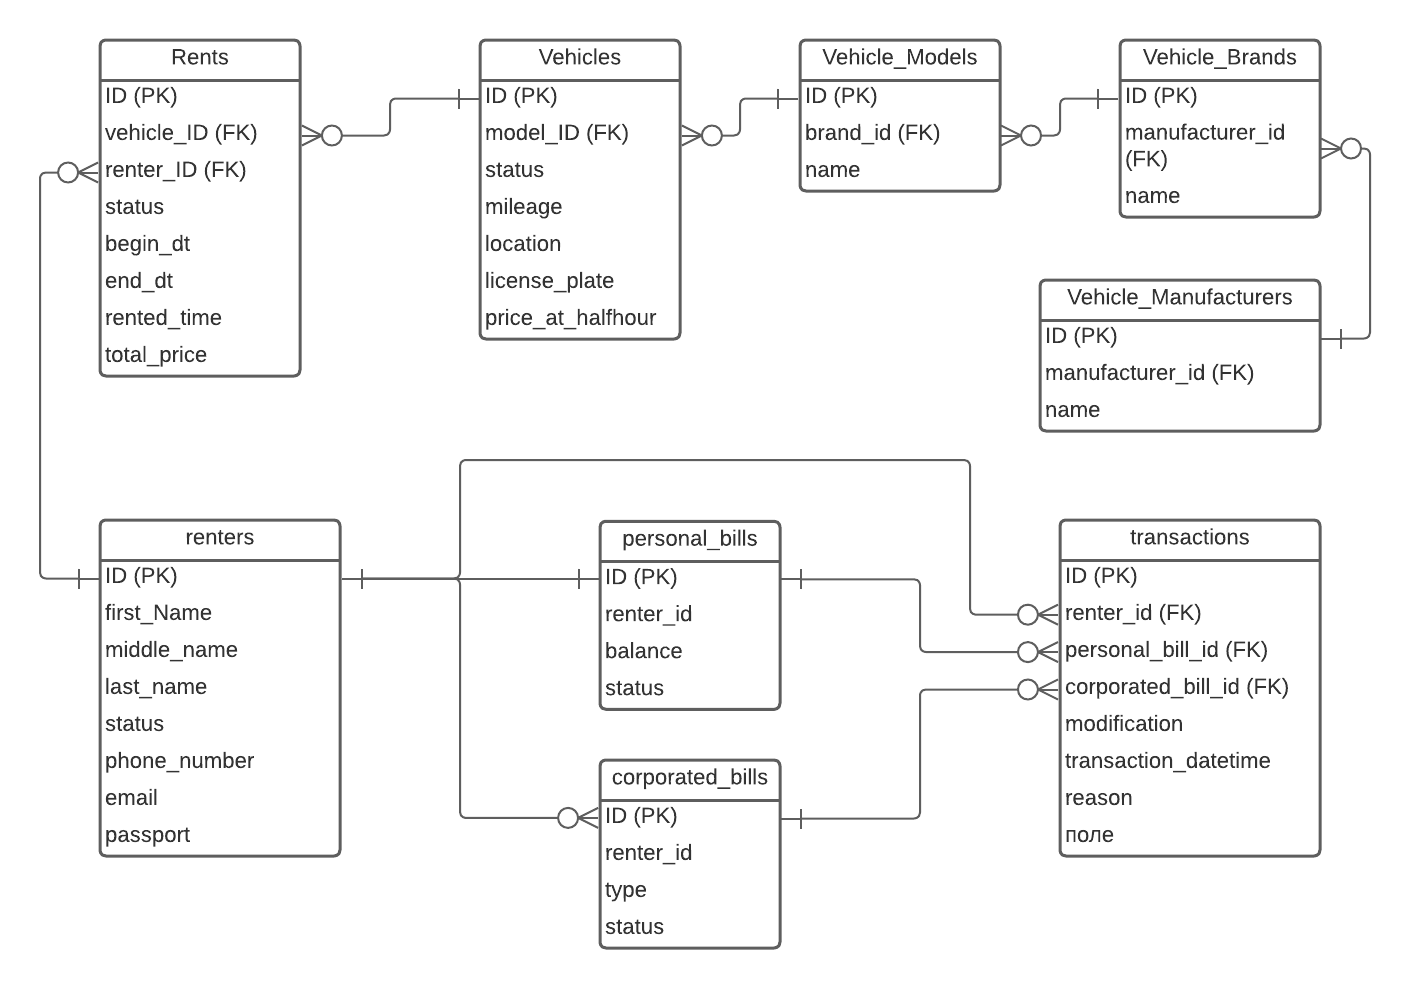
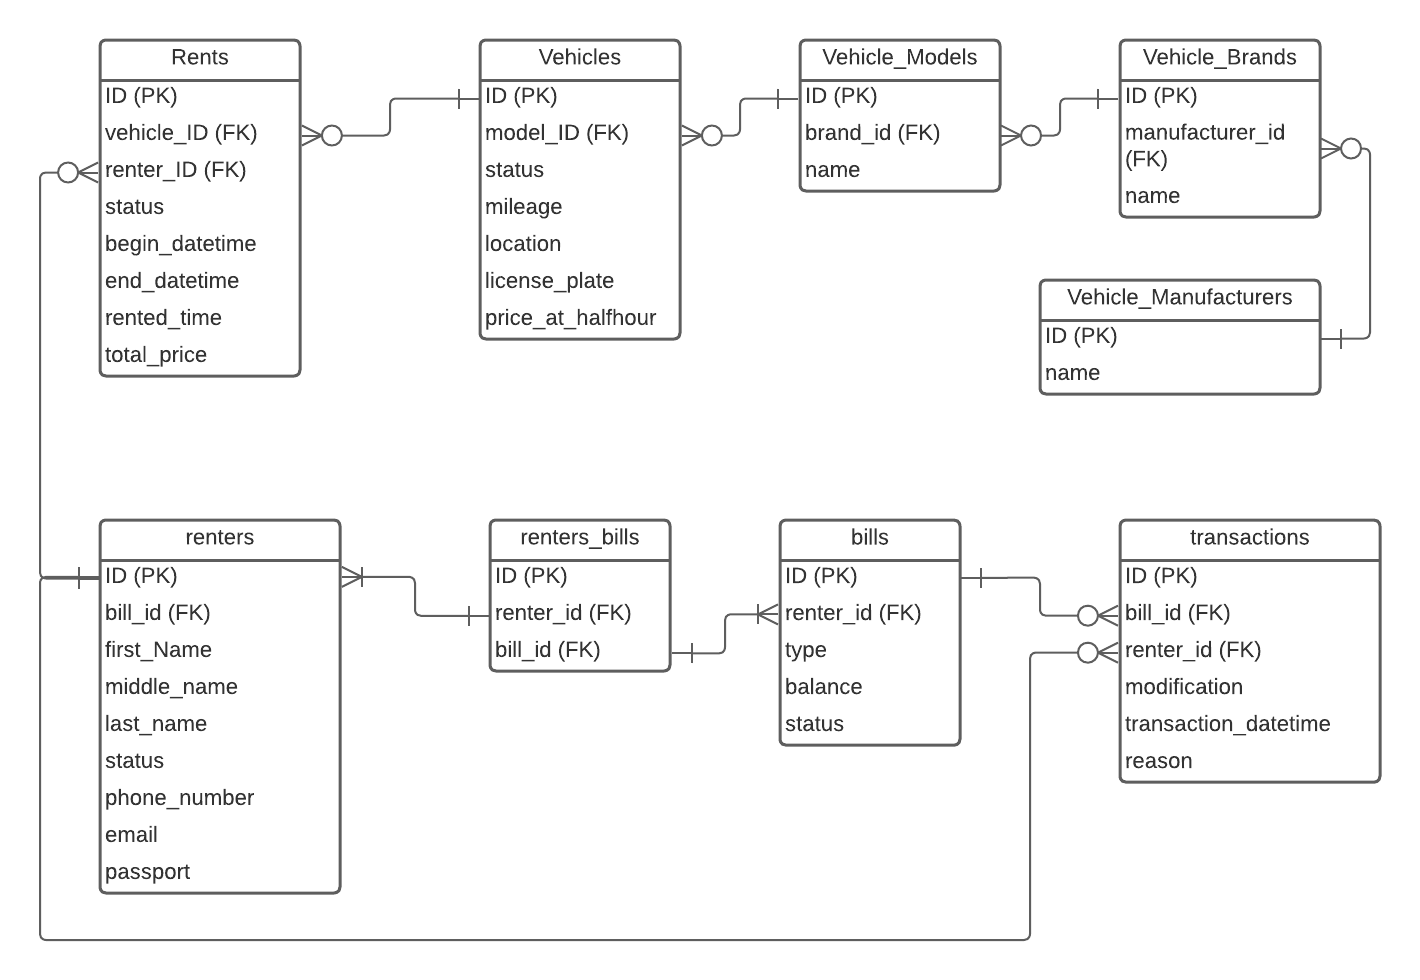
Update readme and fix migration

diff --git a/src/database/migrations/2023_02_07_194607_create_transactions_table.php b/src/database/migrations/2023_02_07_194607_create_transactions_table.php
@@ -21,7 +21,6 @@ return new class extends Migration
 
             $table->integer('modification');
             $table->dateTime('transaction_datetime');
-            $table->string('status');
             $table->string('reason');
 
             $table->timestamps();

diff --git a/README.md b/README.md
@@ -1,7 +1,98 @@
-# Laravel Carsharing 1.0
+# Laravel Carsharing 1.1
 
-## ER Диаграмма
+## Развертывание / Установка
 
-ER Диаграмма сущностей, и связей между ними
+Для установки проекта необходимо следующее:
+
+- Установленный `PHP`
+- Установленный `Composer`
+
+Чтобы развернуть проект, следуйте этой инструкции: <br>
+*Для удобства, в этом проекте я использую `sail`*
+
+1. Установите все зависимости `Composer` при помощи команды `composer update`
+2. Расшифруйте `.env` файл при помощи ключа.
+>Ключ: `base64:tBifRYWBzjAKoDpYirPChhcli3dySoxhlp+9ardjk18=` <br>
+>Команда: (`sail artisan env:encrypt --key=<ключ>`)
+3. Запустите проект `sail up`
+4. Выполните миграции и заполните модели даннми: `sail artisan migrate --seed`
+
+## Описание структура предметной области
+
+### ER Диаграмма
 
 <img src="img/laravel-carsharing-er.png" style="margin: 0 auto;">
+
+### Таблицы
+
+#### Vehicle_manufacturers - Производители ТС
+
+- `ID` - первичный ключ
+- `name` - название производителя ТС
+
+#### Vehicle_brands - Бренды ТС
+
+- `ID` - первичный ключ
+- `manufacturer_id` - внешний ключ для связи с `vehicle_manufacturers`
+- `name` - название бренда ТС
+
+#### Vehicle_models - Модели ТС
+
+- `ID` - первичный ключ
+- `brand_id` - внешний ключ для связи с `vehicle_brands`
+- `name` - название модели ТС
+
+#### Vehicles - Транспортные средства
+
+- `ID` - первичный ключ
+- `model_id` - внешний ключ для связи с `vehicle_models`
+- `status` - статус ТС
+- `mileage` - пробег ТС
+- `location` - координаты ТС
+- `license_plate` - гос. номер ТС
+- `prise_at_hour` - цена за час аренды
+
+#### Rents - информация об арендах
+
+- `ID` - первичный ключ
+- `vehicle_id` - внешний ключ для связи с `vehicles`
+- `renter_id` - внешний ключ для связи с `renters`
+- `status` - статус аренды (открыт, закрыт)
+- `begin_datetime` - дата и время начала аренды
+- `end_datetime` - дата и время конца аренды
+- `rented_time` - общее время (длительность) аренды
+- `total_price` - итоговая цена за аренду
+
+#### Renters - арендаторы
+
+- `ID` - первичный ключ
+- `first_name` - имя
+- `middle_name` - фамилия
+- `last_name` - отчество
+- `status` - статус пользователя (активный, бан, заморожен)
+- `email` - номер телефона пользователя
+- `end_datetime` - email
+- `passport` - серия и номер паспорта
+
+#### Renters_bills - Промежуточная таблица для связи "МкМ"
+
+- `ID` - первичный ключ
+- `renter_id` - внешний ключ для связи с `renters`
+- `bill_id` - внешний ключ для связи с `bills`
+
+#### Bills - Счета
+
+- `ID` - первичный ключ
+- `renter_id` - внешний ключ для связи с `renters`
+- `type` - тип счета
+- `balance` - баланс счета
+- `status` - статус счета (открыт, заморожен, заблокирован, закрыт)
+
+#### Transactions - Операции со счетами
+
+- `ID` - первичный ключ
+- `bill_id` - внешний ключ для связи с `bills`
+- `renter_id` - внешний ключ для связи с `renters`
+- `modification` - изменение баланса (отрицательное значение для снятия, положительное для пополнения)
+- `transaction_datetime` - дата и время операции со счетом
+- `reason` - причина операции (долг, снятие за аренду, пополнение с карты и т.д.)
